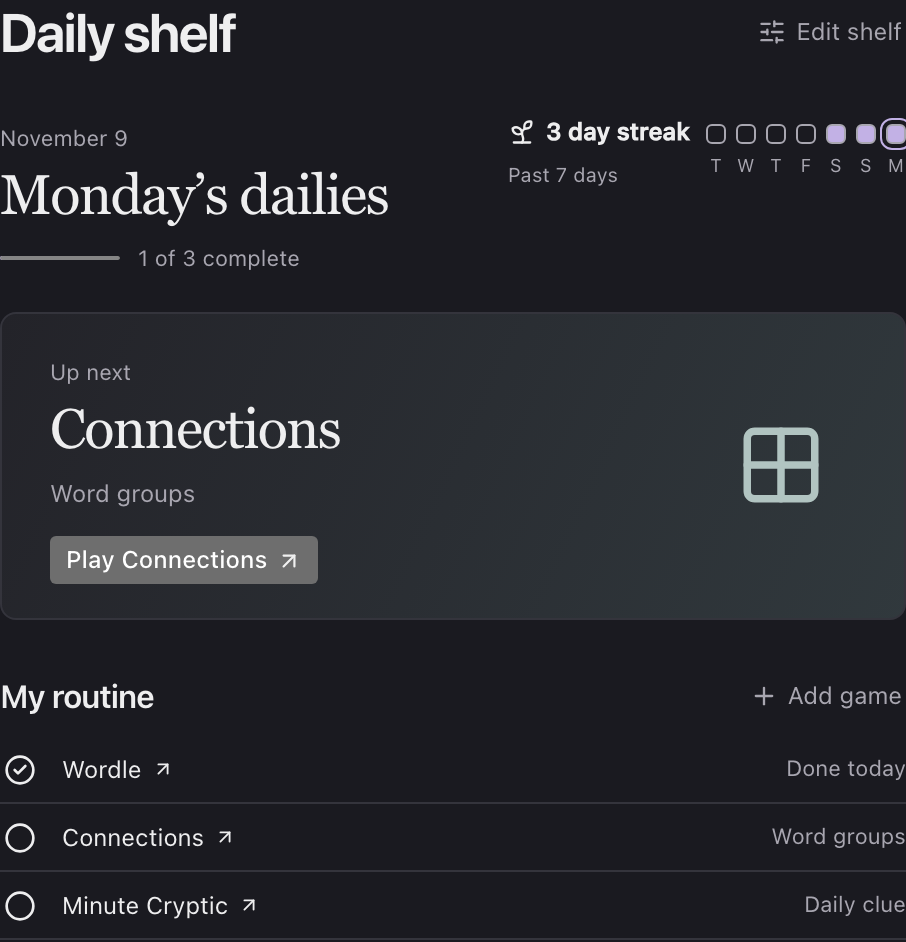
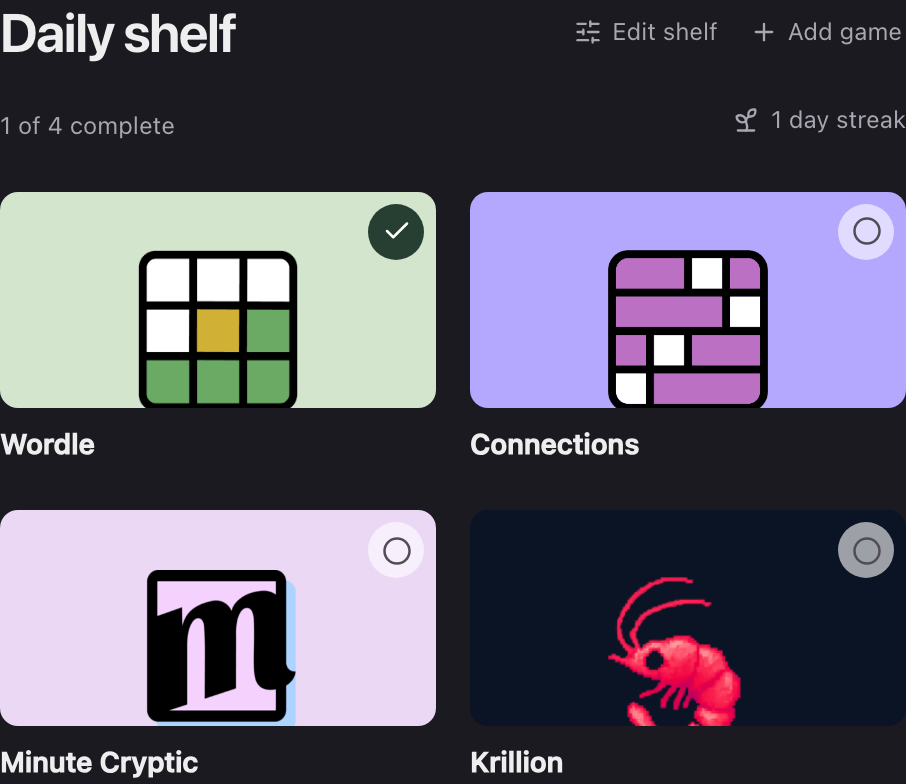
Use each daily game's own artwork across the shelf

diff --git a/ui/shelf-tiles.jsx b/ui/shelf-tiles.jsx
@@ -1,33 +1,21 @@
 import React from "react";
-import { ArrowDown, ArrowUp, Check, Circle, Clock3, Crosshair, Dices, Flag, Globe2, Grid3X3, Layers, Moon, Pencil, Ruler, Spline, Trash2, Waves, Waypoints } from "lucide-react";
+import { ArrowDown, ArrowUp, Check, Circle, Trash2 } from "lucide-react";
+import { catalog } from "./daily-games.mjs";
 import "./shelf-tiles.css";
 
-const covers = {
-  "Timed trivia": [Waves, "#b4dacf", "#215c60"],
-  "Daily clue": [Pencil, "#efc3a5", "#65402c"],
-  "Number puzzle": [Grid3X3, "#f0d58c", "#695024"],
-  "Visual estimation": [Ruler, "#b8d4e7", "#36566b"],
-  "Word ladder": [Waypoints, "#e2bbd4", "#634156"],
-  "Geography": [Globe2, "#acccb5", "#294c47"],
-  "Word puzzle": [Crosshair, "#dfc1a5", "#684730"],
-  "Word groups": [Layers, "#c3b9e0", "#50466b"],
-  "Trivia": [Moon, "#bfc6e8", "#373e68"],
-  "Custom game": [Dices, "#cfc8df", "#524760"],
-};
-const special = {
-  "https://feetle.fun/": Flag,
-  "https://drawtheborder.com/": Spline,
-  "https://krillion.io/": Clock3
-};
-export function GameCover({ game }) {
-  const [Glyph, paper, ink] = covers[game.type] ?? covers["Custom game"];
-  const Detail = special[game.url];
-  const wordle = game.url === "https://www.nytimes.com/games/wordle/index.html";
-  const groups = game.url === "https://www.nytimes.com/games/connections";
-  return <span className={'shelf-cover' + (wordle ? ' cover-wordle' : groups ? ' cover-groups' : '')} style={{'--paper':paper,'--pigment':ink}} aria-hidden="true">
-    {wordle || groups ? <span className="tile-pattern">{Array.from({length:wordle ? 9 : 16}, (_, i)=><i key={i}/>)}</span>
-      : <span className="cover-seal"><Glyph size={31} strokeWidth={1.65}/>{Detail && <Detail className="cover-detail" size={15}/>}</span>}
-  </span>;
+function GameCover({ game }) {
+  const entry = catalog.find(item => item.url === game.url);
+  const initials = game.name.trim().split(/\s+/u).slice(0, 2)
+    .map(word => Array.from(word)[0]).join("").toLocaleUpperCase();
+  return (
+    <span className="shelf-cover" style={{ backgroundColor: entry?.paper }} aria-hidden="true">
+      {entry ? (
+        <img className="game-mark" src={`/daily-games/${entry.artwork}.png`} width="96" height="96" alt="" />
+      ) : (
+        <span className="game-initials">{initials}</span>
+      )}
+    </span>
+  );
 }
 
 export function ShelfTiles({games, done, toggle, open, editing = false, reorder, remove}) {

diff --git a/ui/shelf-tiles.css b/ui/shelf-tiles.css
@@ -2,20 +2,24 @@
 .shelf-tile {position:relative;min-width:0}
 .tile-play {display:grid;width:100%;padding:0;gap:9px;background:none;border:0;text-align:left;font:inherit;color:inherit;text-decoration:none;cursor:pointer}
 .tile-name {font-weight:580;font-size:14px;line-height:1.35;overflow-wrap:anywhere}
-.shelf-cover {height:clamp(108px,12vw,148px);display:grid;place-items:center;position:relative;overflow:hidden;border-radius:9px;background:var(--paper);color:var(--pigment)}
-.cover-seal {display:grid;place-items:center;position:relative;width:50px;height:50px;border:1.5px solid currentColor;border-radius:50%;transform:rotate(-8deg)}
-.cover-detail {position:absolute;right:-4px;bottom:-1px;padding:2px;box-sizing:content-box;background:var(--paper);border-radius:50%}
-.shelf-cover.cover-wordle {background:#c6d8b8}
-.shelf-cover.cover-groups {background:#dfd2ec}
-.tile-pattern {display:grid;grid-template-columns:repeat(3,11px);gap:3px;transform:rotate(-7deg)}
-.tile-pattern i {height:11px;border-radius:2px;background:#f6f3df;box-shadow:0 1px 1px #0002}
-.cover-wordle i:nth-child(3n+1),.cover-wordle i:nth-child(n+7) {background:#447452}
-.cover-wordle i:nth-child(5) {background:#bd963b}
-.cover-groups .tile-pattern {grid-template-columns:repeat(4,10px);gap:3px;transform:rotate(7deg)}
-.cover-groups i {height:10px;background:#f4cd77}
-.cover-groups i:nth-child(n+5){background:#89af88}
-.cover-groups i:nth-child(n+9){background:#729fc7}
-.cover-groups i:nth-child(n+13){background:#9679ad}
+.shelf-cover {
+  height: clamp(108px, 12vw, 148px);
+  display: grid;
+  place-items: center;
+  overflow: hidden;
+  border-radius: 9px;
+  background: #e1dce7;
+}
+.game-mark {
+  width: auto;
+  height: 58%;
+  max-width: 64%;
+  object-fit: contain;
+}
+.game-initials {
+  color: #483b52;
+  font: 600 clamp(30px, 4vw, 42px)/1 Georgia, serif;
+}
 .tile-done,.tile-edit button {display:grid;place-items:center;width:28px;height:28px;border:0;border-radius:50%;cursor:pointer}
 .tile-done {position:absolute;top:6px;right:6px;background:#fff9;color:#514d55}
 .tile-done[aria-pressed=true] {background:#273e32;color:#fff}

diff --git a/ui/library.jsx b/ui/library.jsx
@@ -9,21 +9,7 @@ import {
 import { ShelfTiles } from "./shelf-tiles";
 import { invoke } from "./settings";
 
-export const catalog = [
-  ["Krillion", "Timed trivia", "https://krillion.io/"],
-  ["Connections", "Word groups", "https://www.nytimes.com/games/connections"],
-  ["Wordle", "Word puzzle", "https://www.nytimes.com/games/wordle/index.html"],
-  ["Minute Cryptic", "Daily clue", "https://www.minutecryptic.com/"],
-  ["Number Waffle", "Number puzzle", "https://wafflegame.net/numberwaffle"],
-  ["Size It Up", "Visual estimation", "https://magnitudle.com/size-it-up"],
-  ["Layers", "Word groups", "https://www.hiddenlayerlabs.com/play/"],
-  ["Poople", "Word ladder", "https://poople.io/"],
-  ["Dartwords", "Word puzzle", "https://www.dartwords.com/"],
-  ["Feetle", "Word ladder", "https://feetle.fun/"],
-  ["Originle", "Geography", "https://originle.io/"],
-  ["Moonshot", "Trivia", "https://moonshotdailygame.com/"],
-  ["Draw the Border", "Geography", "https://drawtheborder.com/"],
-].map(([name, type, url]) => ({ name, type, url }));
+import { catalog } from "./daily-games.mjs";
 
 export function useSaved(key, initial) {
   const [data, set] = useState(() => {

diff --git a/site/src/puzzle-preview.jsx b/site/src/puzzle-preview.jsx
@@ -2,7 +2,7 @@ import React, {useState} from 'react';
 import {ChessPuzzle} from '../../ui/chess.jsx';
 import {newChessBoard, chessPuzzle} from '../../ui/chess-rules.mjs';
 import '../../ui/puzzles.css';
-import {catalog} from '../../ui/library.jsx';
+import {catalog} from '../../ui/daily-games.mjs';
 import {ShelfTiles} from '../../ui/shelf-tiles.jsx';
 
 export function ChessBreak({startingBoard, shortcutScope}) {

diff --git a/NOTICE.md b/NOTICE.md
@@ -2,6 +2,6 @@ Fokus source code is licensed under GPL-3.0-or-later. The full license is in [LI
 
 The bundled preset domain names were curated using [HaGeZi’s DNS blocklists](https://github.com/hagezi/dns-blocklists), [v2fly’s community domain lists](https://github.com/v2fly/domain-list-community), and [Similarweb’s category rankings](https://www.similarweb.com/top-websites/). HaGeZi publishes under GPLv3. The [v2fly MIT notice](licenses/domain-list-community.txt) is included.
 
-Third-party app names, site icons, and logos identify their respective products. Their owners retain their rights. Dependencies retain the licenses listed in their distributions.
+Third-party app names, site icons, and logos identify their respective products. The [Daily shelf artwork sources](licenses/daily-game-artwork.txt) identify the publisher assets bundled with Fokus. Their owners retain their rights. Dependencies retain the licenses listed in their distributions.
 
 Chess puzzle positions and solutions come from the [Lichess open database](https://database.lichess.org/#puzzles), released under CC0. The [chess pieces by Colin M. L. Burnett](https://github.com/lichess-org/lila/tree/master/public/piece/cburnett) are licensed under GPL-2.0-or-later. The interactive board uses [Chessground](https://github.com/lichess-org/chessground) under GPL-3.0-or-later. Chess move validation uses [chess.js](https://github.com/jhlywa/chess.js) under its [BSD license](licenses/chess-js.txt).
